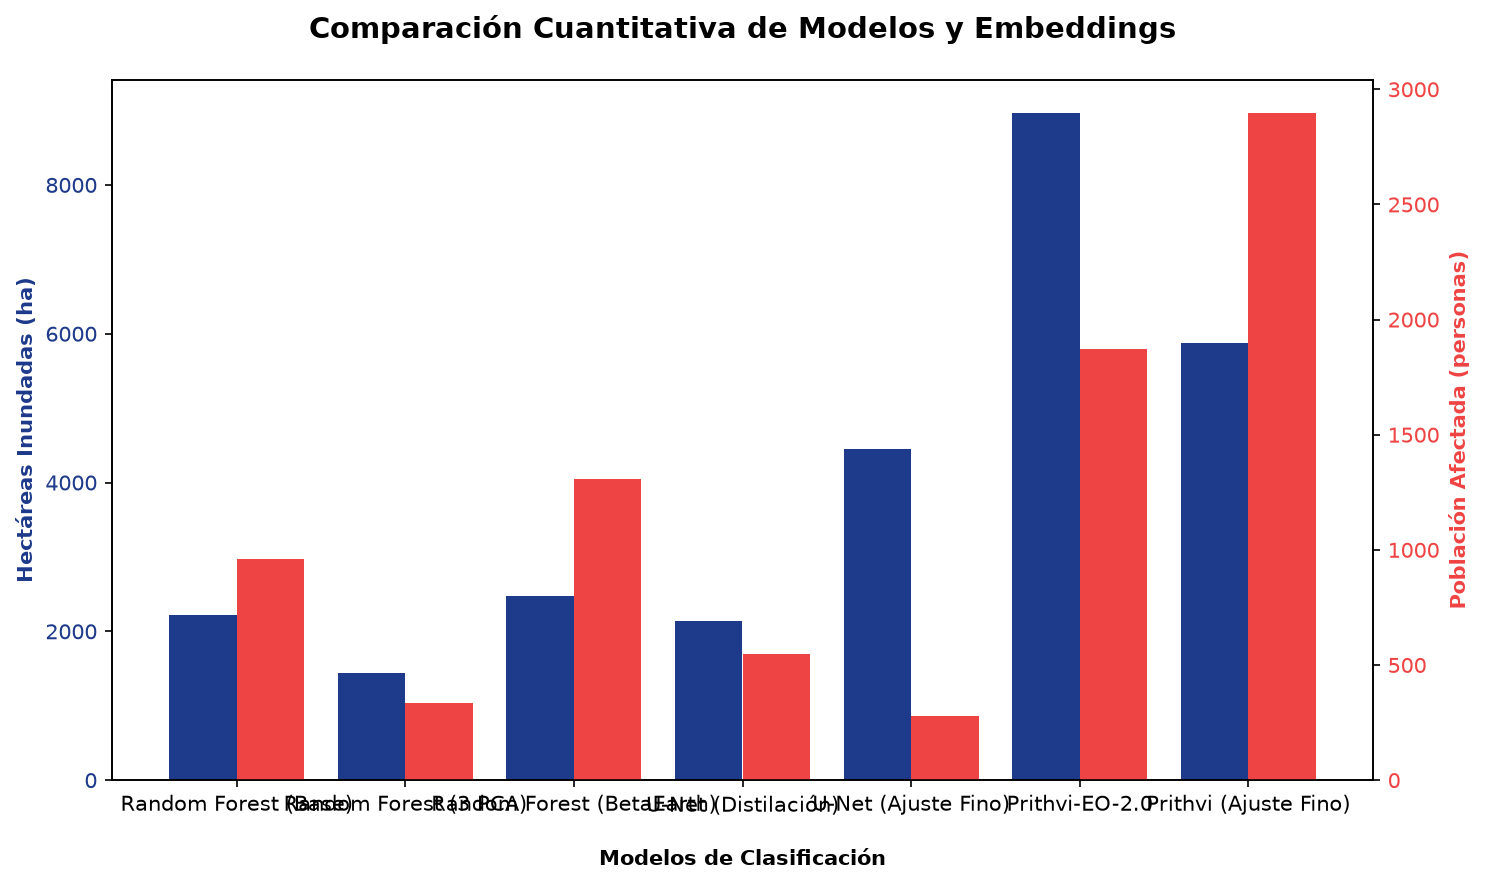
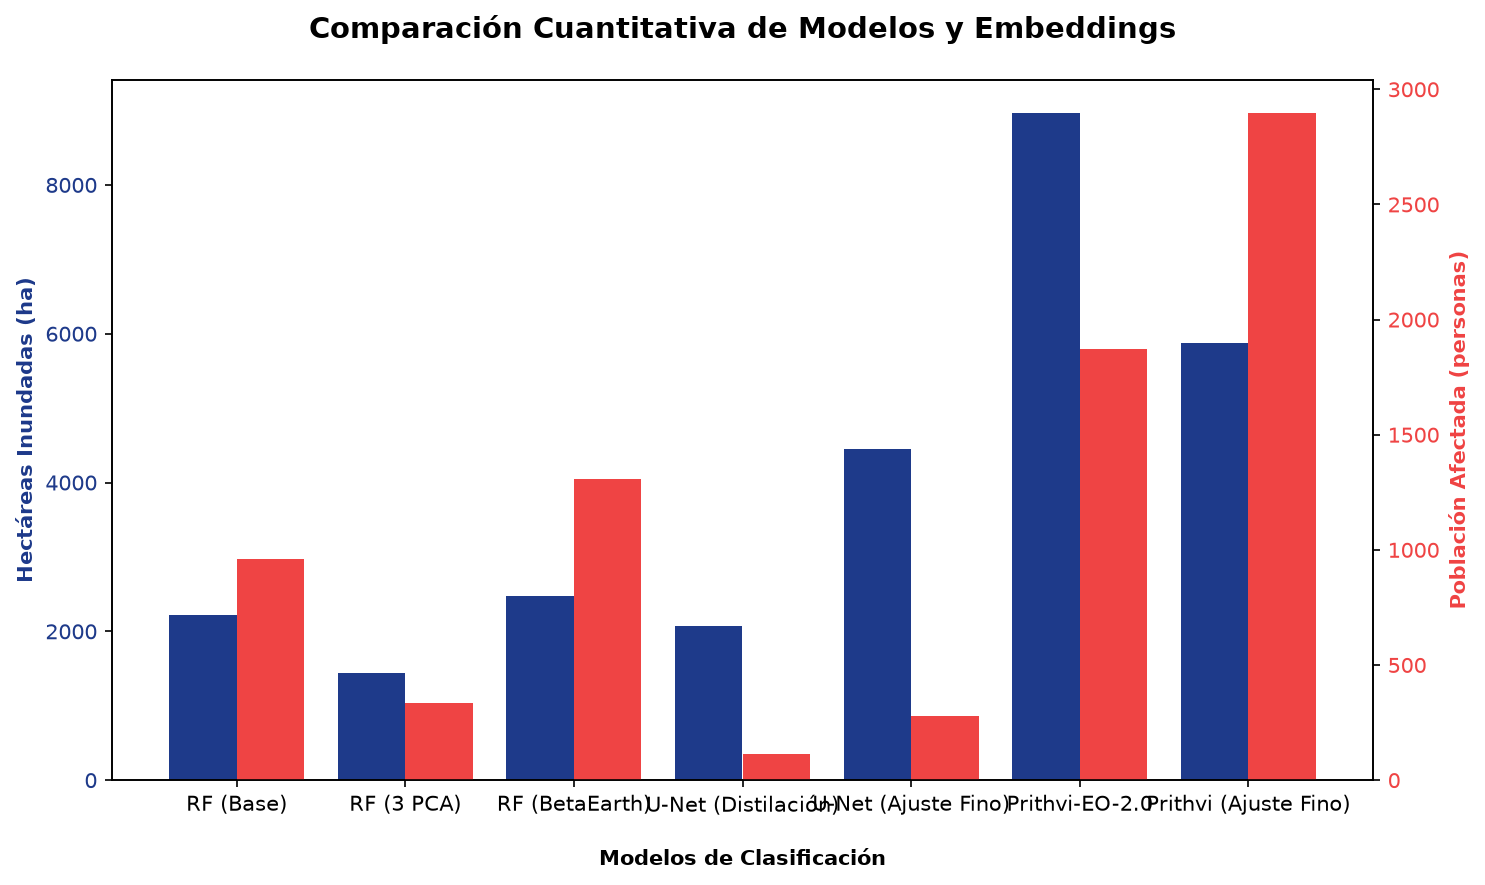
docs & style: shorten Random Forest to RF in charts and comparison scripts

Changed region(s): [[0.0929, 0.8847, 0.4956, 0.9153], [0.4956, 0.7322, 0.5576, 0.8542], [0.4646, 0.7017, 0.4956, 0.7322]]

diff --git a/data-Sentinel-2/metricas_modelos.js b/data-Sentinel-2/metricas_modelos.js
@@ -1,27 +1,27 @@
 window.metricasModelos = {
   "rf_base": {
-    "nombre": "Random Forest (Base)",
+    "nombre": "RF (Base)",
     "hectareas": 2219.32,
     "poblacion": 960,
     "pixeles": 55483
   },
   "rf_pca": {
-    "nombre": "Random Forest (3 PCA)",
+    "nombre": "RF (3 PCA)",
     "hectareas": 1441.0,
     "poblacion": 337,
     "pixeles": 36025
   },
   "rf_betaearth": {
-    "nombre": "Random Forest (BetaEarth)",
+    "nombre": "RF (BetaEarth)",
     "hectareas": 2479.12,
     "poblacion": 1306,
     "pixeles": 61978
   },
   "unet": {
     "nombre": "U-Net (Distilaci\u00f3n)",
-    "hectareas": 2138.04,
-    "poblacion": 548,
-    "pixeles": 53451
+    "hectareas": 2077.44,
+    "poblacion": 115,
+    "pixeles": 51936
   },
   "unet_finetuned": {
     "nombre": "U-Net (Ajuste Fino)",

diff --git a/scripts/comparar_modelos.py b/scripts/comparar_modelos.py
@@ -193,7 +193,7 @@ def main():
     pix_rf = int(np.sum(inund_rf))
     ha_rf = float(pix_rf * pixel_area_ha)
     pop_rf = int(np.sum(pop_density[inund_rf]) * 0.0004)
-    results["rf_base"] = {"nombre": "Random Forest (Base)", "hectareas": round(ha_rf, 2), "poblacion": pop_rf, "pixeles": pix_rf}
+    results["rf_base"] = {"nombre": "RF (Base)", "hectareas": round(ha_rf, 2), "poblacion": pop_rf, "pixeles": pix_rf}
     print(f"   ➜ Hectáreas: {ha_rf:.2f} ha, Población afectada: {pop_rf}")
     
     # Guardar máscara RF
@@ -234,7 +234,7 @@ def main():
     pix_pca = int(np.sum(inund_pca))
     ha_pca = float(pix_pca * pixel_area_ha)
     pop_pca = int(np.sum(pop_density[inund_pca]) * 0.0004)
-    results["rf_pca"] = {"nombre": "Random Forest (3 PCA)", "hectareas": round(ha_pca, 2), "poblacion": pop_pca, "pixeles": pix_pca}
+    results["rf_pca"] = {"nombre": "RF (3 PCA)", "hectareas": round(ha_pca, 2), "poblacion": pop_pca, "pixeles": pix_pca}
     print(f"   ➜ Hectáreas: {ha_pca:.2f} ha, Población afectada: {pop_pca}")
     
     # Guardar máscara PCA
@@ -293,7 +293,7 @@ def main():
     pix_emb = int(np.sum(inund_emb))
     ha_emb = float(pix_emb * pixel_area_ha)
     pop_emb = int(np.sum(pop_density[inund_emb]) * 0.0004)
-    results["rf_betaearth"] = {"nombre": "Random Forest (BetaEarth)", "hectareas": round(ha_emb, 2), "poblacion": pop_emb, "pixeles": pix_emb}
+    results["rf_betaearth"] = {"nombre": "RF (BetaEarth)", "hectareas": round(ha_emb, 2), "poblacion": pop_emb, "pixeles": pix_emb}
     print(f"   ➜ Hectáreas: {ha_emb:.2f} ha, Población afectada: {pop_emb}")
     
     # Guardar máscara BetaEarth